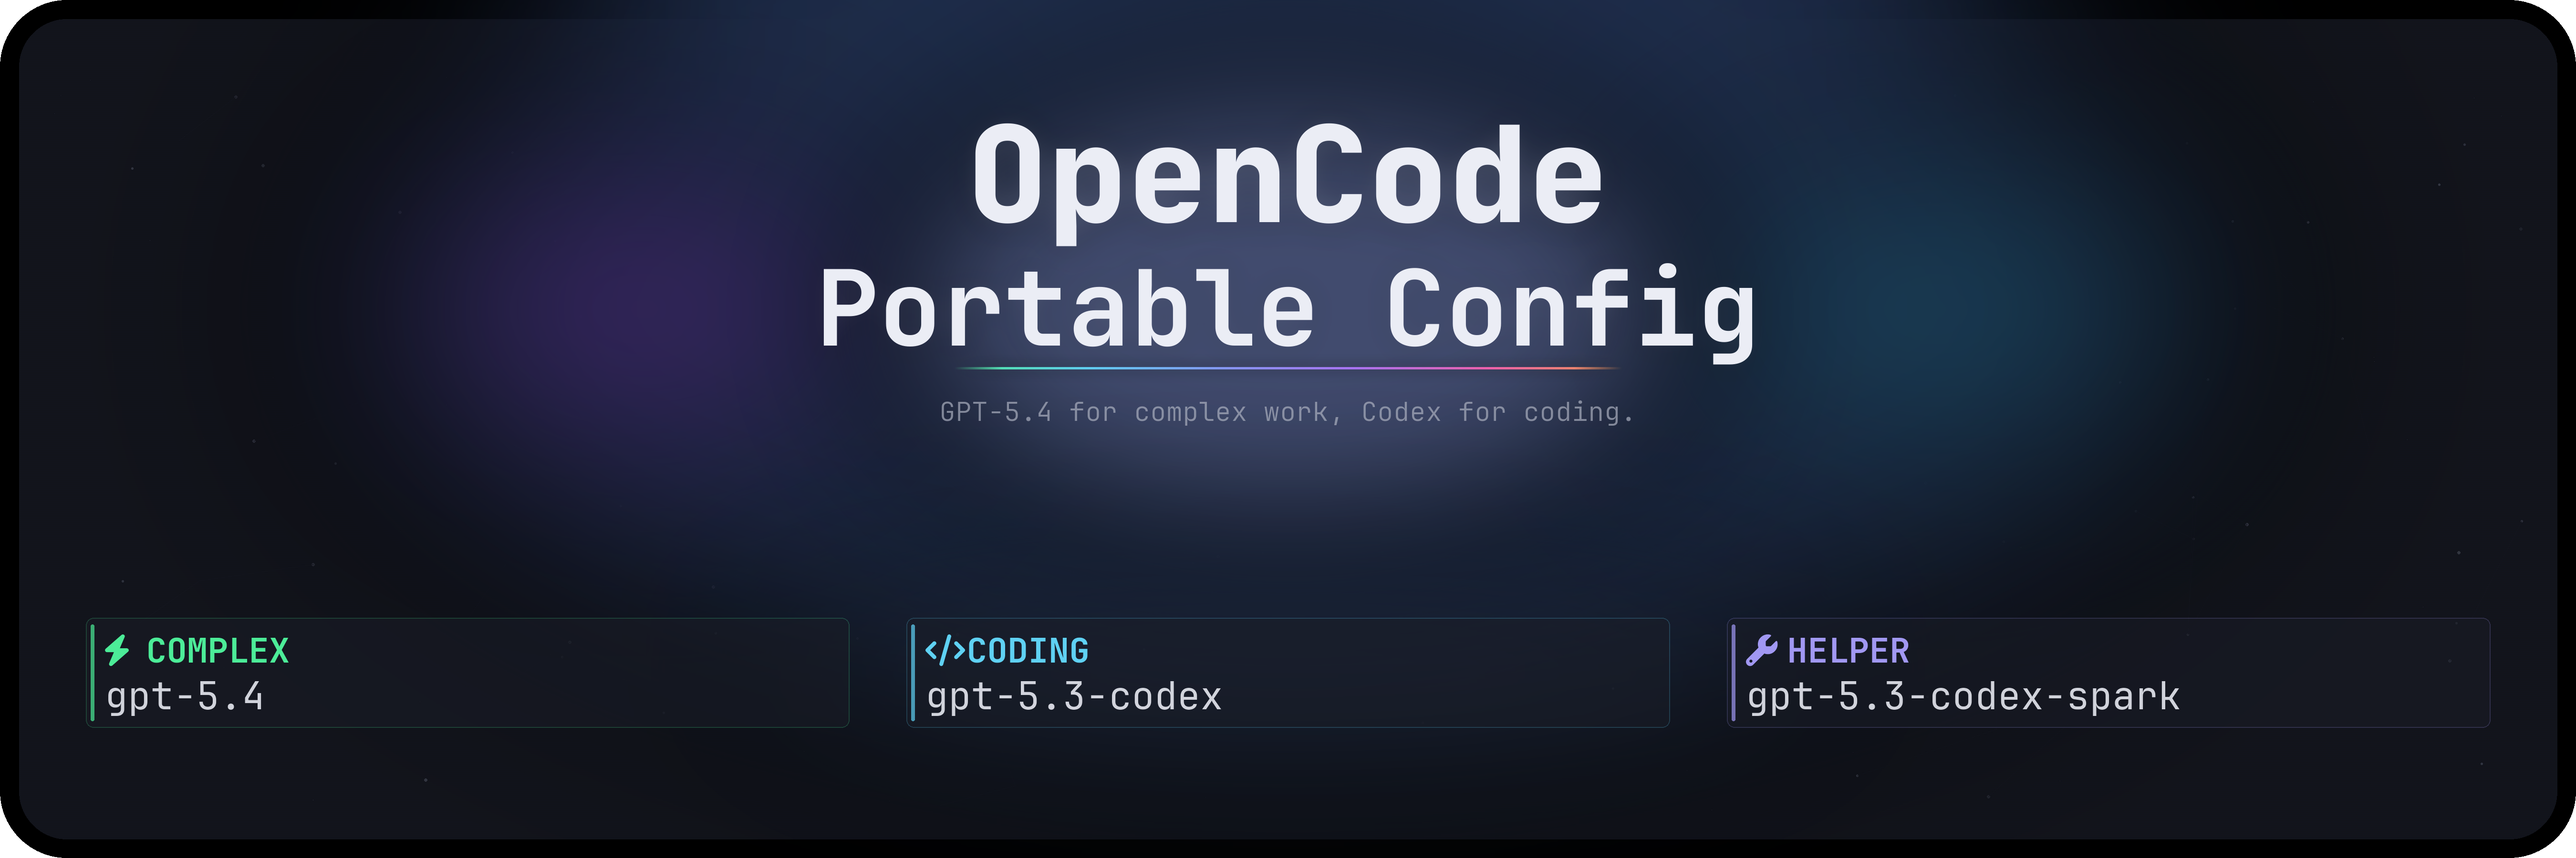
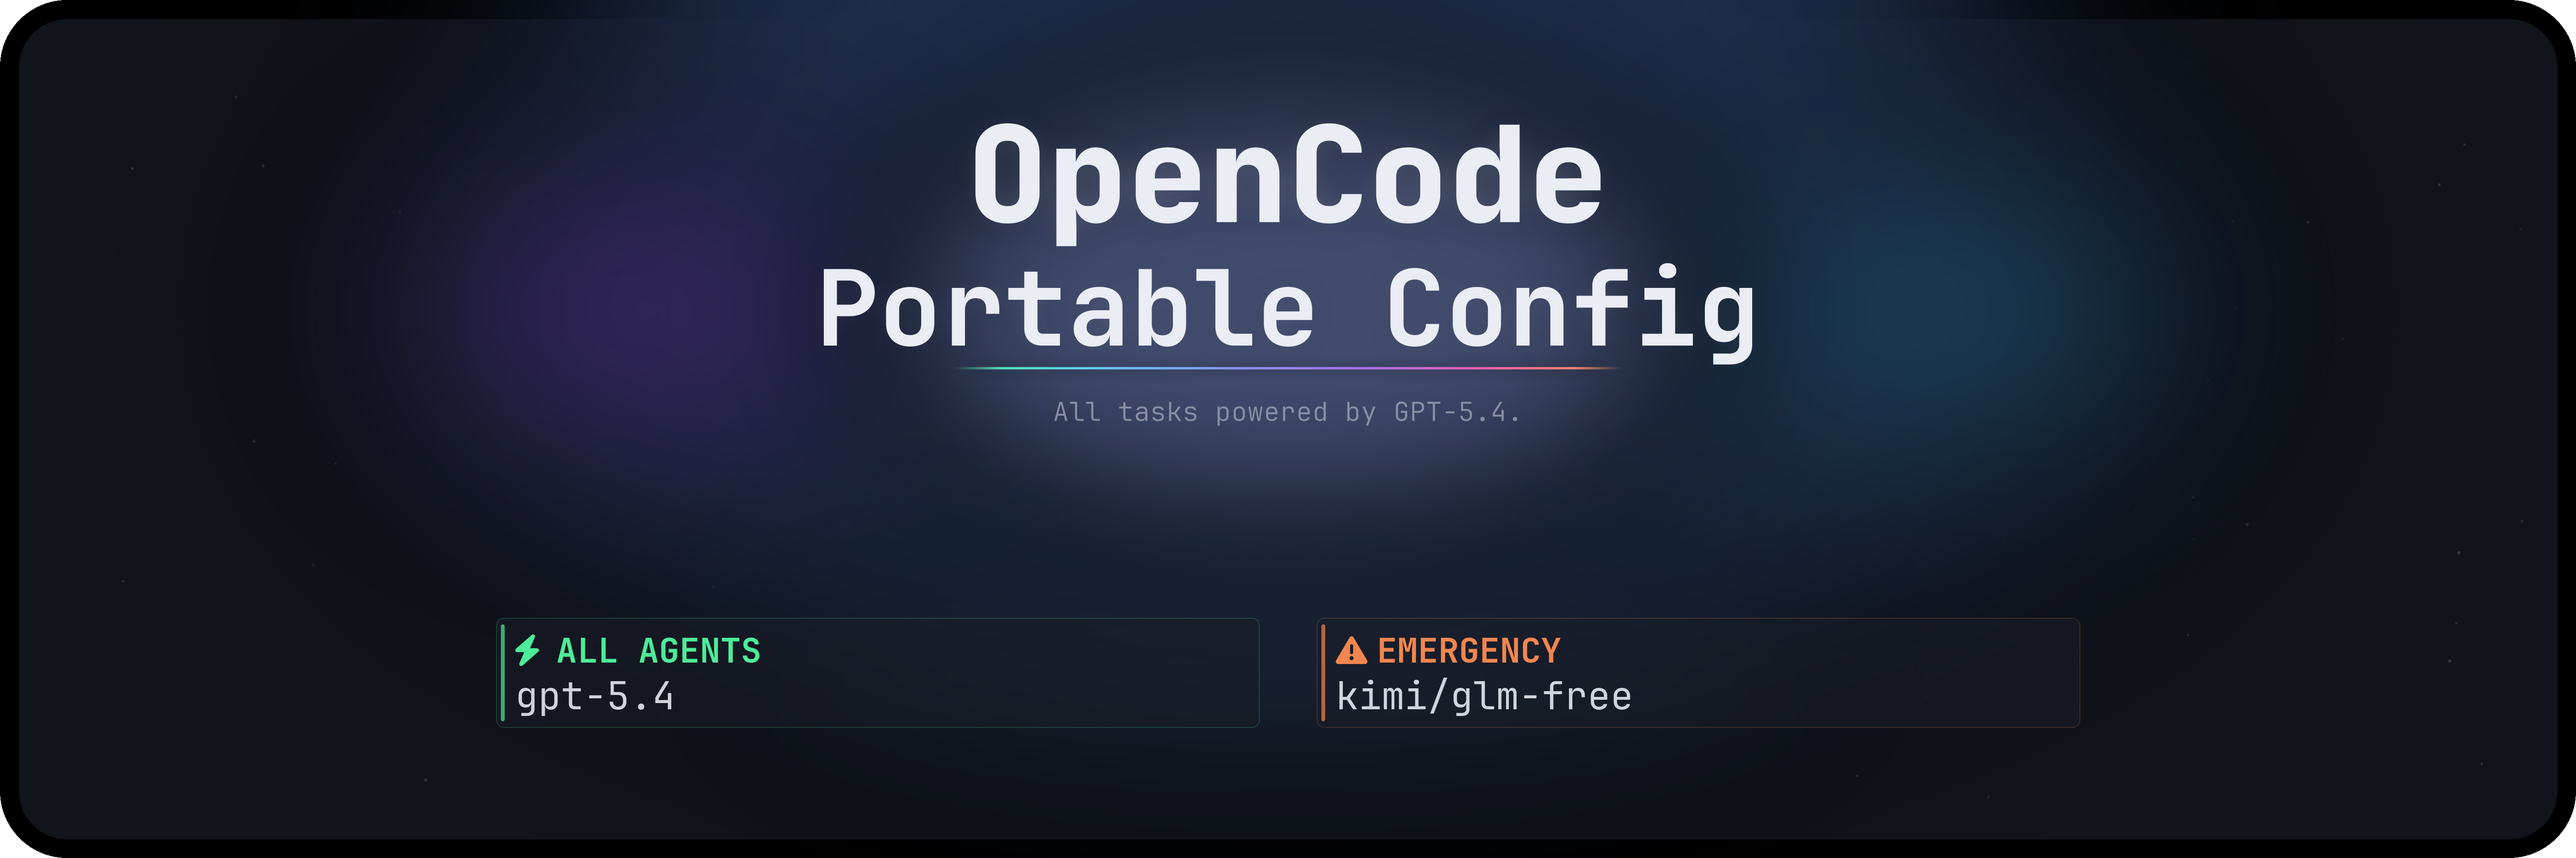
feat: migrate all agents from gpt-5.3-codex to gpt-5.4
Replace deprecated gpt-5.3-codex and gpt-5.3-codex-spark with gpt-5.4
across all config files. Simplify fallback system from 3-tier to 2-tier
(normal/emergency). Update docs, cover image, and switch script accordingly.

diff --git a/generate_cover.py b/generate_cover.py
@@ -213,7 +213,7 @@ def main():
 
     # === 8. Tagline ===
     tag_font = ImageFont.truetype(F_LIGHT, 56)
-    tag = "GPT-5.4 for complex work, Codex for coding."
+    tag = "All tasks powered by GPT-5.4."
     draw = ImageDraw.Draw(canvas)
     tag_x = center(draw, tag, tag_font, WIDTH)
     tag_y = line_y + 55
@@ -227,9 +227,8 @@ def main():
     badge_font_model = ImageFont.truetype(F_REG, 80)
 
     badges = [
-        ("\uf0e7 COMPLEX", "gpt-5.4", (80, 250, 160)),
-        ("\uf121 CODING", "gpt-5.3-codex", (100, 220, 255)),
-        ("\uf0ad HELPER", "gpt-5.3-codex-spark", (170, 160, 255)),
+        ("\uf0e7 ALL AGENTS", "gpt-5.4", (80, 250, 160)),
+        ("\uf071 EMERGENCY", "kimi/glm-free", (255, 140, 80)),
     ]
 
     bw, bh = 1600, 230

diff --git a/README.md b/README.md
@@ -1,8 +1,8 @@
-# OpenCode Portable Config (GPT-5.4 + Codex)
+# OpenCode Portable Config (GPT-5.4)
 
 ![Cover](cover.png)
 
-Portable OpenCode/oh-my-opencode settings that route complex tasks to `gpt-5.4`, code/script tasks to `gpt-5.3-codex`, and search helpers to `gpt-5.3-codex-spark`.
+Portable OpenCode/oh-my-opencode settings that route all tasks to `gpt-5.4`. Emergency fallback to Kimi K2.5 Free + GLM 4.7 Free when OpenAI is down.
 
 ## Files
 
@@ -20,7 +20,7 @@ Portable OpenCode/oh-my-opencode settings that route complex tasks to `gpt-5.4`,
 One-line prompt for your LLM agent:
 
 ```text
-Please refer to [here](https://github.com/wjgoarxiv/opencode-gpt-portable-config). Clone or download this repo, then: (1) copy `opencode-configs/opencode.json` and `opencode-configs/oh-my-opencode.normal.json` into my OpenCode config path (`~/.config/opencode` on macOS/Linux, `%USERPROFILE%\.config\opencode` on Windows), renaming `oh-my-opencode.normal.json` to `oh-my-opencode.json`; (2) copy the fallback configs (`oh-my-opencode.spark-exhausted.json`, `oh-my-opencode.fallback.json`) and `switch-config.sh` into the same directory; (3) make `switch-config.sh` executable; (4) back up any existing files first; (5) run doctor/check and confirm complex model is `openai/gpt-5.4` and coding model is `openai/gpt-5.3-codex`.
+Please refer to [here](https://github.com/wjgoarxiv/opencode-gpt-portable-config). Clone or download this repo, then: (1) copy `opencode-configs/opencode.json` and `opencode-configs/oh-my-opencode.normal.json` into my OpenCode config path (`~/.config/opencode` on macOS/Linux, `%USERPROFILE%\.config\opencode` on Windows), renaming `oh-my-opencode.normal.json` to `oh-my-opencode.json`; (2) copy the fallback config (`oh-my-opencode.fallback.json`) and `switch-config.sh` into the same directory; (3) make `switch-config.sh` executable; (4) back up any existing files first; (5) run doctor/check and confirm all agents resolve to `openai/gpt-5.4`.
 ```
 
 macOS/Linux default path:
@@ -29,9 +29,7 @@ macOS/Linux default path:
 mkdir -p ~/.config/opencode
 cp opencode-configs/opencode.json ~/.config/opencode/opencode.json
 cp opencode-configs/oh-my-opencode.normal.json ~/.config/opencode/oh-my-opencode.json
-cp opencode-configs/oh-my-opencode.spark-exhausted.json ~/.config/opencode/
 cp opencode-configs/oh-my-opencode.fallback.json ~/.config/opencode/
-cp opencode-configs/oh-my-opencode.normal.json ~/.config/opencode/
 cp opencode-configs/switch-config.sh ~/.config/opencode/
 chmod +x ~/.config/opencode/switch-config.sh
 ```
@@ -42,77 +40,56 @@ Windows (PowerShell) default path:
 New-Item -ItemType Directory -Force "$env:USERPROFILE\.config\opencode" | Out-Null
 Copy-Item .\opencode-configs\opencode.json "$env:USERPROFILE\.config\opencode\opencode.json" -Force
 Copy-Item .\opencode-configs\oh-my-opencode.normal.json "$env:USERPROFILE\.config\opencode\oh-my-opencode.json" -Force
-Copy-Item .\opencode-configs\oh-my-opencode.spark-exhausted.json "$env:USERPROFILE\.config\opencode\" -Force
 Copy-Item .\opencode-configs\oh-my-opencode.fallback.json "$env:USERPROFILE\.config\opencode\" -Force
-Copy-Item .\opencode-configs\oh-my-opencode.normal.json "$env:USERPROFILE\.config\opencode\" -Force
 Copy-Item .\opencode-configs\switch-config.sh "$env:USERPROFILE\.config\opencode\" -Force
 ```
 
 ## Fallback System
 
-This repo includes a 3-tier fallback system for OpenAI outage resilience.
+This repo includes a 2-tier fallback system for OpenAI outage resilience.
 
 > **Important:** OpenCode does not support runtime auto-fallback. You must manually run the switch script when issues occur, then restart OpenCode.
 
 ### How It Works
 
 ```
-                     ┌──────────────┐
-                     │   NORMAL     │  ./switch-config.sh normal
-                     │   (default)  │
-                     └──────┬───────┘
-                            │
-           ┌────────────────┴────────────────┐
-           │                                 │
-    ┌──────┴───────┐                ┌────────┴──────┐
-    │  Heavy Tasks  │                │  Fast Tasks    │
-    │  gpt-5.4     │                │ gpt-5.3-codex │
-    │  (1.05M ctx) │                │    -spark      │
-    └──────────────┘                │  (128k ctx)   │
-                                    └───────────────┘
-                            │
-                     Spark quota gone?
-                            │ YES
-                            ▼
-              ┌────────────────────────┐
-              │    SPARK-EXHAUSTED     │  ./switch-config.sh spark-exhausted
-              │                        │
-              │  Non-spark agents →    │
-              │  gpt-5.3-codex (400k)  │
-              └────────────┬───────────┘
-                            │
-                     OpenAI down?
-                            │ YES
-                            ▼
-              ┌────────────────────────┐
-              │      EMERGENCY         │  ./switch-config.sh emergency
-              └────────────┬───────────┘
-                            │
-           ┌────────────────┴────────────────┐
-           │                                 │
-    ┌──────┴───────┐                ┌────────┴──────┐
-    │  Heavy Tasks  │                │  Fast Tasks    │
-    │ kimi-k2.5    │                │  glm-4.7      │
-    │   -free       │                │   -free        │
-    │  (256k ctx)  │                │  (128k ctx)   │
-    └──────────────┘                └───────────────┘
+              ┌──────────────┐
+              │   NORMAL     │  ./switch-config.sh normal
+              │   (default)  │
+              └──────┬───────┘
+                     │
+              All agents → gpt-5.4 (1.05M ctx)
+                     │
+              OpenAI down?
+                     │ YES
+                     ▼
+    ┌────────────────────────┐
+    │      EMERGENCY         │  ./switch-config.sh emergency
+    └────────────┬───────────┘
+                 │
+       ┌─────────┴──────────┐
+       │                    │
+┌──────┴───────┐    ┌───────┴──────┐
+│  Heavy Tasks  │    │  Fast Tasks  │
+│ kimi-k2.5    │    │  glm-4.7    │
+│   -free       │    │   -free      │
+│  (256k ctx)  │    │  (128k ctx)  │
+└──────────────┘    └─────────────┘
 
   Recovery: ./switch-config.sh normal → back to default
 ```
 
 ```
-  Mode              Cost     Perf     Availability
-  ──────────────────────────────────────────────────
-  NORMAL            $$$$    ★★★★★   Depends on OpenAI
-  SPARK-EXHAUSTED   $$$     ★★★★    Depends on OpenAI
-  EMERGENCY         FREE    ★★★     Independent (Kimi/GLM)
+  Mode       Cost     Perf     Availability
+  ──────────────────────────────────────────
+  NORMAL     $$$$    ★★★★★   Depends on OpenAI
+  EMERGENCY  FREE    ★★★     Independent (Kimi/GLM)
 ```
 
 ### When to Switch
 
 | Symptom | Action | Command |
 |---------|--------|---------|
-| Spark agents failing with quota errors | Switch to spark-exhausted | `./switch-config.sh spark-exhausted` |
 | All OpenAI calls returning 429/500/503 | Switch to emergency | `./switch-config.sh emergency` |
 | OpenAI status page shows outage | Switch to emergency | `./switch-config.sh emergency` |
 | OpenAI restored / quota reset | Switch back to normal | `./switch-config.sh normal` |
@@ -123,16 +100,15 @@ All fallback configs are in the `opencode-configs/` directory.
 
 | Mode | Config File | Models |
 |------|-------------|--------|
-| **normal** | `oh-my-opencode.normal.json` | GPT-5.4 (complex) + GPT-5.3 Codex (coding) + Spark helpers |
-| **spark-exhausted** | `oh-my-opencode.spark-exhausted.json` | GPT-5.4 (complex) + GPT-5.3 Codex (non-spark agents) |
+| **normal** | `oh-my-opencode.normal.json` | All agents: GPT-5.4 (1.05M ctx) |
 | **emergency** | `oh-my-opencode.fallback.json` | Kimi K2.5 Free + GLM 4.7 Free |
 
 ### Setup
 
-Copy fallback configs and the switch script to your OpenCode config directory:
+Copy the fallback config and switch script to your OpenCode config directory:
 
 ```bash
-cp opencode-configs/*.json ~/.config/opencode/
+cp opencode-configs/oh-my-opencode.fallback.json ~/.config/opencode/
 cp opencode-configs/switch-config.sh ~/.config/opencode/
 chmod +x ~/.config/opencode/switch-config.sh
 ```
@@ -145,9 +121,6 @@ cd ~/.config/opencode
 # Check current mode
 ./switch-config.sh status
 
-# Spark quota exhausted → non-spark agents use Codex
-./switch-config.sh spark-exhausted
-
 # OpenAI down → switch to Kimi/GLM free tier
 ./switch-config.sh emergency
 
@@ -159,17 +132,15 @@ cd ~/.config/opencode
 
 | Normal Model | Emergency Fallback | Agents |
 |--------------|--------------------|--------|
-| `gpt-5.4` | `kimi-k2.5-free` (256k ctx) | sisyphus, oracle, prometheus, metis, momus, atlas, plan |
-| `gpt-5.3-codex` | `kimi-k2.5-free` (256k ctx) | hephaestus, multimodal-looker, frontend, writer |
-| `gpt-5.3-codex-spark` | `glm-4.7-free` (128k ctx) | librarian, explore, sisyphus-junior, build, OpenCode-Builder |
+| `gpt-5.4` | `kimi-k2.5-free` (256k ctx) | sisyphus, oracle, prometheus, metis, momus, atlas, plan, hephaestus, multimodal-looker, frontend-ui-ux-engineer, document-writer |
+| `gpt-5.4` | `glm-4.7-free` (128k ctx) | librarian, explore, sisyphus-junior, build, OpenCode-Builder |
 
 ## Verify
 
 Run OpenCode doctor/check after applying. Validate that:
 
 - provider is OpenAI
-- default complex model resolves to `gpt-5.4`
-- coding/script model resolves to `gpt-5.3-codex`
+- all agents resolve to `gpt-5.4`
 
 ## Security
 
